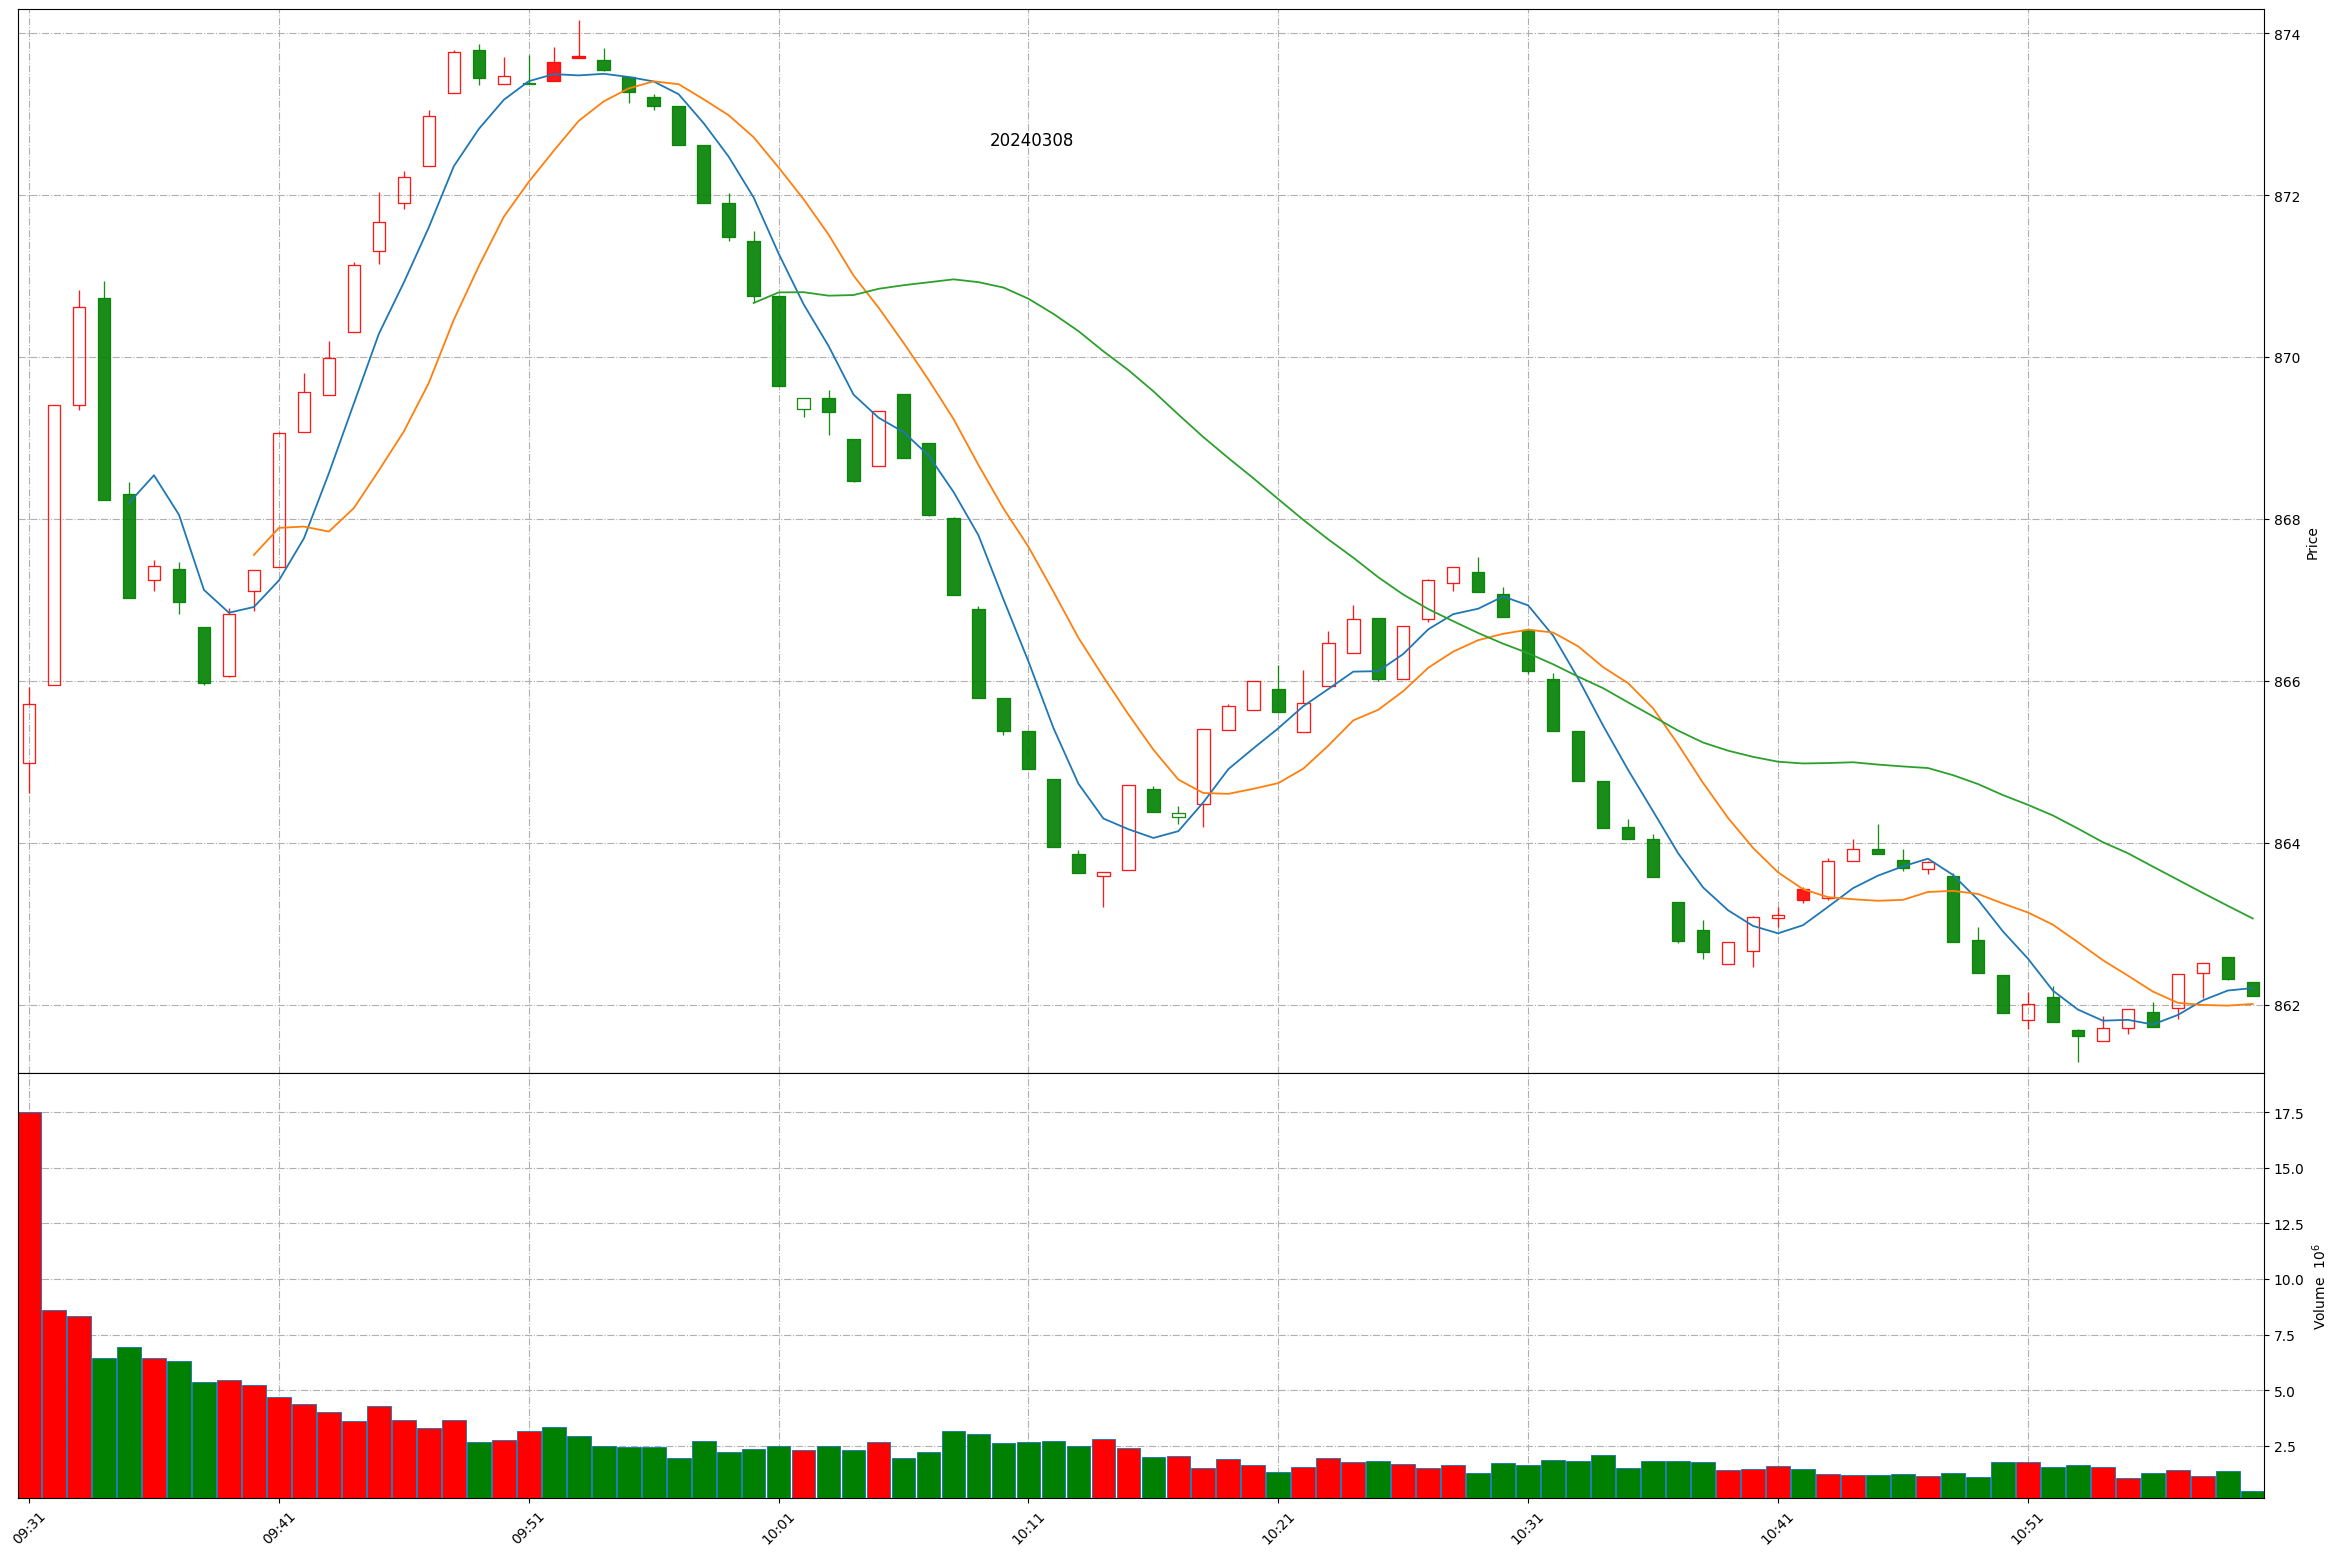
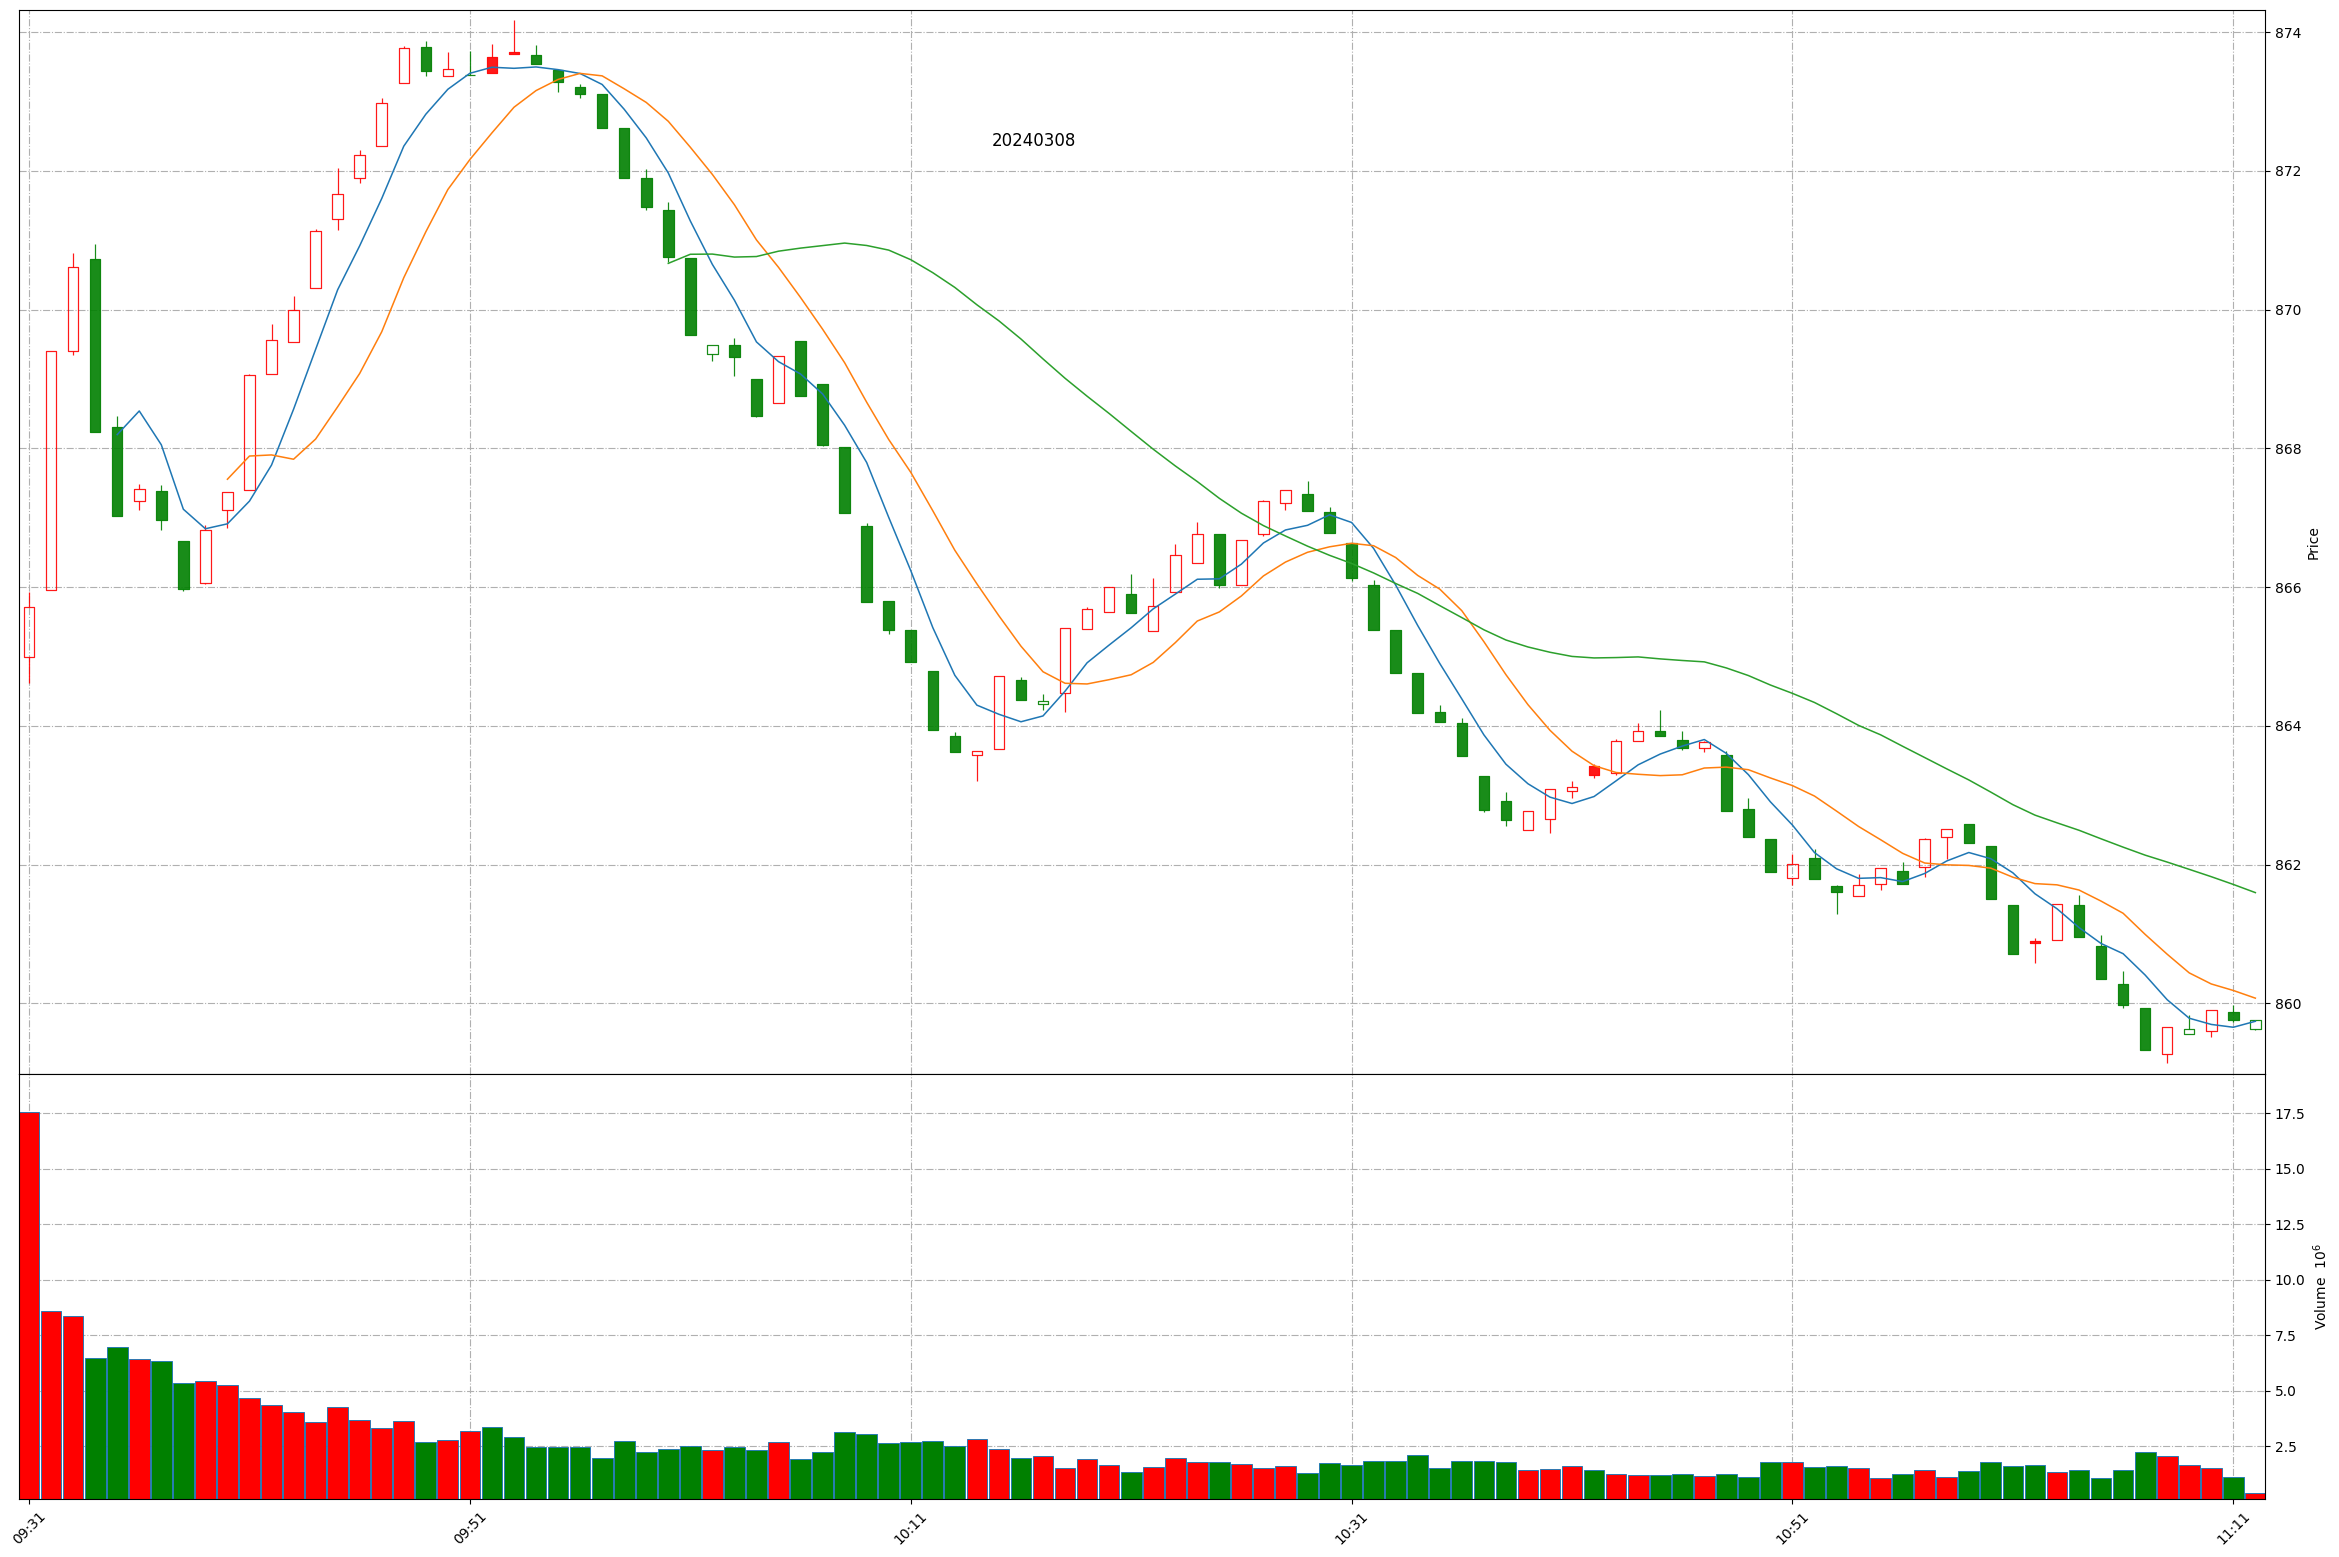
Github action update at 2024-03-08 11:11:33.

diff --git a/README.md b/README.md
@@ -1,11 +1,11 @@
 
 # Daily-A-share-market-quotes 每日 A 股指数（5min 更新）- 20240308
 
-### 上证指数 20240308 10:59
+### 上证指数 20240308 11:11
 ![](./fig/2024/3/20240308-sh000001.png)
 
-### 深证成指 20240308 10:59
+### 深证成指 20240308 11:11
 ![](./fig/2024/3/20240308-sz399001.png)
 
-### 北证50 20240308 10:59
+### 北证50 20240308 11:11
 ![](./fig/2024/3/20240308-bj899050.png)
